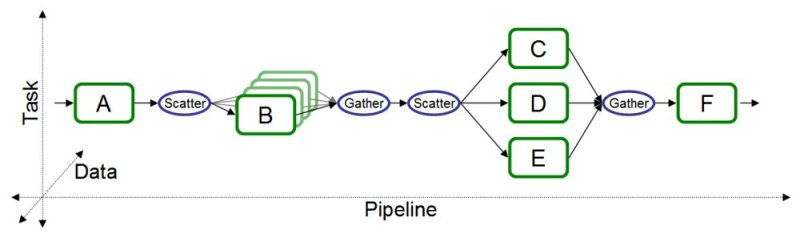
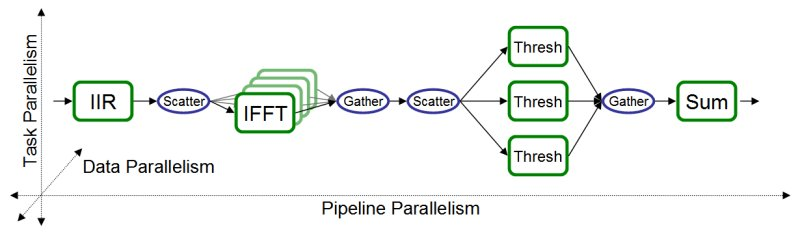
changed figure and caption and figure refs, thanks bill
git-svn-id: https://svn.csail.mit.edu/streamit/trunk@10135 fb122d4e-f3b4-4596-99d2-990b948fa53d

Changed region(s): [[0.0, 0.0897, 0.9688, 0.7778], [0.0, 0.7778, 1.0, 0.9573], [0.0312, 0.0299, 0.0625, 0.0897]]

diff --git a/streams/docs/csail-abstract-multicore-07/mgordon.html b/streams/docs/csail-abstract-multicore-07/mgordon.html
@@ -58,7 +58,7 @@ are denoted by green boxes and data-reorganization nodes are denoted
 by blue ovals. Pipeline parallelism is present between filters in the
 horizontal dimension, task parallelism in the vertical dimension, and
 data parallelism in the perceived depth dimension.  Data parallelism
-is exploited only in Filter B.  Filter B is stateless and can be
+is exploited only in IFFT.  IFFT is stateless and can be
 data-parallelized by duplicating the filter (duplicates denoted by the
 lighter boxes). 
 </center>
@@ -67,20 +67,20 @@ lighter boxes).
 <p>StreamIt directly exposes three types of coarse-grained
 parallelism: task, data, and pipeline. Conceptually, each type of
 parallelism can be expressed on an independent axis of a stream
-graph (see Figure 1).  Task parallelism refers to pairs of filters
+graph (see Figure 1).  Task parallelism refers to groups of filters
 that are on different parallel branches of the original stream graph,
-as written by the programmer (Filters C, D, and E in Figure 1). That
-is, the output of each filter never reaches the input of the other. In
-stream programs, task parallelism reflects logical parallelism in the
-underlying algorithm. Data parallelism refers to any filter that has
-no dependences between one execution and the next. Such "stateless"
-filters offer unlimited data parallelism, as different instances of
-the filter can be spread across any number of computation units
-(Filter B in Figure 1).  StreamIt, unlike many other streaming
-languages, naturally supports pipeline parallelism [1].  Pipeline
-parallelism applies to chains of producers and consumers that are
-directly connected in the stream graph (e.g., Filters A and B in
-Figure 1). Each type of parallelism has advantages and
+as written by the programmer (e.g., three Thresh filters in Figure
+1). That is, the output of each filter never reaches the input of the
+other. In stream programs, task parallelism reflects logical
+parallelism in the underlying algorithm. Data parallelism refers to
+any filter that has no dependences between one execution and the
+next. Such "stateless" filters offer unlimited data parallelism, as
+different instances of the filter can be spread across any number of
+computation units (e.g., IFFT in Figure 1).  StreamIt, unlike many
+other streaming languages, naturally supports pipeline parallelism
+[1].  Pipeline parallelism applies to chains of producers and
+consumers that are directly connected in the stream graph (e.g., IIR
+and IFFT in Figure 1). Each type of parallelism has advantages and
 disadvantages. For example, exploiting data parallelism is
 straightforward and produces a load-balanced mapping. However, by
 itself, data parallelism requires global communication and
